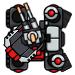
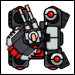
added full sized assets and fixed sinking logic

diff --git a/src/App.js b/src/App.js
@@ -1,13 +1,18 @@
 import React, { Component } from 'react';
 import GameInit from './GameInit';
 import PlayableBoard from './PlayableBoard';
-import Chat from './Chat';
+import ship1BBrokenFull from './Assets/Ships/Blue/ship1BbrokenFull.png'
+import ship2BBrokenFull from './Assets/Ships/Blue/ship2BbrokenFull.png'
+import ship3BBrokenFull from './Assets/Ships/Blue/ship3BbrokenFull.png'
+import ship4BBrokenFull from './Assets/Ships/Blue/ship4BbrokenFull.png'
+import ship5BBrokenFull from './Assets/Ships/Blue/ship5BbrokenFull.png'
+import Blank from './Assets/Ships/Red/blank.png'
 import './index.css';
 import { BrowserRouter as Router, Route } from 'react-router-dom';
 
 
 
-const ws = new WebSocket('ws://localhost:3001');
+const ws = new WebSocket('ws://18.188.167.90:3001');
 
 class App extends Component {
 	constructor(props) {
@@ -20,8 +25,8 @@ class App extends Component {
 			turn: true, // boolean tracking turn order with true = P1 false = P2
 			player1SinkStat: [], // array of P1 ship objects (contains name: location: sunk:)
 			player2SinkStat: [], // array of P2 ship objects (contains name: location: sunk:)
-			player1SunkShips: [], // contains names of any ships sunk by P2 opponent
-			player2SunkShips: [], // contains names of any ships sunk by P1 opponent
+			player1SunkShips: ['blank'], // contains names of any ships sunk by P2 opponent
+			player2SunkShips: ['blank'], // contains names of any ships sunk by P1 opponent
 			roomId: '',
 			didWin: null,
 			chat: [],
@@ -152,6 +157,7 @@ class App extends Component {
 	};
 
 	_setSunkStatus = id => {
+    
 		let shotsFiredArr;
 		let shipObj;
 		// choose which player arrays to update based on id of calling function
@@ -167,12 +173,25 @@ class App extends Component {
 		// Check shotsFiredArr at those indicies for anything not an 'X'
 		// In effect if only X's were found the true state of sunk is left untouched and is correct.
 		// If instead a value of 0 (default) or 'O' (miss) are found, no hit was registered at these ship coordinates yet
-		// so we set the sunk value back to false.
+    // so we set the sunk value back to false.
+    // debugger;
 		for (let i = 0; i < 5; i++) {
-			shipObj[i].location.forEach(index => {
-				if (shotsFiredArr[index - 1] !== 'tempX' || shotsFiredArr[index - 1] !== 'X') {
-					modifiedShipObj[i].sunk = false;
-				}
+			 shipObj[i].location.forEach(index => {
+        switch(shotsFiredArr[index-1]) {
+
+          case 0:
+            modifiedShipObj[i].sunk = false;
+          case 'tempO':
+            modifiedShipObj[i].sunk = false;
+          case 'O':
+            modifiedShipObj[i].sunk = false;
+        }
+
+			// 	if (shotsFiredArr[index - 1] !== 'X') {
+			// 		modifiedShipObj[i].sunk = false;
+			// 	}else if(shotsFiredArr[index - 1] !== 'tempX') {
+      //     modifiedShipObj[i].sunk = false;
+      //   }
 			});
 		}
 		// After this is done for all 5 ships we setState overwriting the ship objects with any changes to sunk state
@@ -180,44 +199,41 @@ class App extends Component {
 		this.setState(
 			{
 				player2SinkStat: modifiedShipObj
-			}, this._checkSunkStatus()
+			}, this._checkSunkStatus(modifiedShipObj)
 		);
 	};
 
-	_checkSunkStatus = () => {
+	_checkSunkStatus = (modifiedShipObj) => {
 		// This method will loop through the sunk statuses of each ship
 		// and set the name in state of any sunken ship
 		// Finally, it calls a check function in gameIsOver for handling if the game has concluded or not
 	
-		const status = this.state.player2SinkStat;
+		// const status = this.state.player2SinkStat;
+		const status = modifiedShipObj;
 
 		let sunkenShips;
 
-		sunkenShips = status.filter(obj => {
+		sunkenShips = status.map(obj => {
 			if (obj.sunk) {
-				return true;
+        return obj.name;
 			} else {
-				return false;
+				return 'blank';
 			}
-		});
-
-		let sunkenShipNames = sunkenShips.map(obj => {
-			return obj.name;
 		});
 
 		this.setState(
 			{
-				player2SunkShips: sunkenShipNames
+				player2SunkShips: sunkenShips
 			},
-			this._sendShotResultsToOpp
+			this._sendShotResultsToOpp(sunkenShips)
 		);
 	};
 
-	_sendShotResultsToOpp = () => {
+	_sendShotResultsToOpp = (sunkenShips) => {
 
     console.log('this.state.player1SinkStat')
     console.log(this.state.player1SinkStat)
-		ws.send(JSON.stringify({ type: 'shotsFired', value: this.state.player2Status, id: this.state.roomId}));
+		ws.send(JSON.stringify({ type: 'shotsFired', value: this.state.player2Status, id: this.state.roomId, sunkenShipsArr: sunkenShips}));
 		this.state.turn
 			? this.setState({ turn: false }, console.log('its your turn'))
 			: this.setState({ turn: true }, console.log('not your turn'));
@@ -229,12 +245,12 @@ class App extends Component {
 		// This method is a simple check for game end.
 		// It checks the length of both player arrays containing names of their sunken ships
 		// If either player array is of length 5, all 5 ships have sunk and the game is over
-		if (this.state.player1SunkShips.length === 5 || this.state.player2SunkShips.length === 5) {
-			console.log('You Won');
+		if (!this.state.player1SunkShips.includes('blank')){
+      console.log('You Won');
 			ws.send(JSON.stringify({ type: 'gameOver', id: this.state.roomId }));
 			this.setState({
 				didWin: true
-			});
+			});   
 		}
 	};
 
@@ -330,7 +346,25 @@ class App extends Component {
 		console.log('message sent websockets');
 	};
 
-
+  _opponentSunkShips =  () => {
+    let sunkShips = this.state.player2SunkShips.map(name => {
+      switch(name) {
+        case 'PT-2M Citadel':
+          return  <img src={ship1BBrokenFull} alt=''></img>
+        case 'R5 Typhoon':
+          return  <img src={ship2BBrokenFull} alt=''></img>
+        case 'J76A Zepher':
+          return  <img src={ship3BBrokenFull} alt=''></img>
+        case 'DL08 Challenger':
+          return  <img src={ship4BBrokenFull} alt=''></img>
+        case 'VB-4 Lynx':
+          return  <img src={ship5BBrokenFull} alt=''></img>
+        case 'blank':
+        return  <img src={Blank} alt=''></img>
+      }
+    })
+    return sunkShips;
+  }
 
 	render() {
 
@@ -362,7 +396,6 @@ class App extends Component {
 						render={props => {
 							return (
 								<div className='gamestart'>
-									<div style={{ width: 200 + 'px', backgroundColor: 'white' }}>{this.state.player2SunkShips}</div>
 									{/* <div className='playableBoard'>  */}
                     <PlayableBoard
                     setPlayer1Status = {this._setPlayer1Status}
@@ -385,6 +418,7 @@ class App extends Component {
                     addToChat={this._addToChat}
                     player1SinkStat = {this.state.player1SinkStat}
 									  />
+                    <div className='sunkShips' style={{ backgroundColor: 'white' }}>{this._opponentSunkShips()}</div>
                   </div>
 								// </div>
 							);

diff --git a/src/PlayerBoard.js b/src/PlayerBoard.js
@@ -11,6 +11,8 @@ import ship2Rbroken from './Assets/Ships/Red/ship2Rbroken.png';
 import ship3Rbroken from './Assets/Ships/Red/ship3Rbroken.png';
 import ship4Rbroken from './Assets/Ships/Red/ship4Rbroken.png';
 import ship5Rbroken from './Assets/Ships/Red/ship5Rbroken.png';
+import StaticExplosion from './Assets/staticExplosion.png';
+import StaticMiss from './Assets/staticMiss.png';
 
 class PlayerBoard extends Component {
   constructor(props) {
@@ -29,9 +31,9 @@ class PlayerBoard extends Component {
     } else if (this.props.playerStatus[this.state.id - 1] === 'tempO') {
       onShot = <Miss />
     }else if (this.props.playerStatus[this.state.id - 1] === 'X') {
-      onShot = 'X';
+      onShot = <img src={StaticExplosion} alt='explosion hit' style={{ maxHeight: 100+'%', maxWidth: 100+'%'}} />
     } else if (this.props.playerStatus[this.state.id - 1] === 'O') {
-      onShot = 'O';
+      onShot = <img src={StaticMiss} alt='explosion miss' style={{ maxHeight: 100+'%', maxWidth: 100+'%'}} />
     }
     
     let ship; 

diff --git a/src/OpponentBoard.js b/src/OpponentBoard.js
@@ -3,6 +3,8 @@ import Hit from './Hit';
 import Miss from './Miss';
 import HitFX from './HitFX';
 import MissFX from './MissFX';
+import StaticExplosion from './Assets/staticExplosion.png';
+import StaticMiss from './Assets/staticMiss.png';
 
 class OpponentBoard extends Component {
 	constructor(props) {
@@ -50,9 +52,11 @@ class OpponentBoard extends Component {
         onShot = <Miss />;
         firingSolution = <MissFX />;
       }else if (this.props.opponentStatus[this.state.id - 1] === 'X') {
-        onShot = 'X';
+        onShot = <img src={StaticExplosion} alt='' style={{ maxHeight: 100+'%', maxWidth: 100+'%'}} />
+        ;
       } else if (this.props.opponentStatus[this.state.id - 1] === 'O') {
-        onShot = 'O';
+        onShot = <img src={StaticMiss} alt='' style={{ maxHeight: 100+'%', maxWidth: 100+'%'}} />
+
       }
     
       // make a copy of state

diff --git a/src/HitFX.js b/src/HitFX.js
@@ -1,19 +1,8 @@
 import React, { Component } from 'react';
-import Boom1 from './Assets/Sounds/explosion1.wav';
-import Boom2 from './Assets/Sounds/explosion2.wav';
-import Boom3 from './Assets/Sounds/explosion3.wav';
-import HitAudio from './Assets/Sounds/firecombined.wav';
+import HitAudio from './Assets/Sounds/explosionHit.wav';
+// import HitAudio from './Assets/Sounds/firecombined.wav';
 
 class HitFX extends Component {
-  constructor(props) {
-    super(props);
-    this.state=({
-      explosion: [Boom1,Boom2,Boom3],
-      usedSounds: [],
-    })
-  }
-  
- 
 
   _shuffleArr = (array) => {
     let i = array.length,
@@ -37,7 +26,6 @@ class HitFX extends Component {
   }
 
   render() {
-    let Boom = this.state.explosion[this._getRandomIntInclusive()]
 
     return (
       <audio autoPlay = {true}>

diff --git a/src/Ship.js b/src/Ship.js
@@ -1,9 +1,9 @@
 import React, { Component } from 'react';
-import ship1R from './Assets/Ships/Red/ship1R.png';
-import ship2R from './Assets/Ships/Red/ship2R.png';
-import ship3R from './Assets/Ships/Red/ship3R.png';
-import ship4R from './Assets/Ships/Red/ship4R.png';
-import ship5R from './Assets/Ships/Red/ship5R.png';
+import ship1R from './Assets/Red/ship1R.png';
+import ship2R from './Assets/Red/ship2R.png';
+import ship3R from './Assets/Red/ship3R.png';
+import ship4R from './Assets/Red/ship4R.png';
+import ship5R from './Assets/Red/ship5R.png';
 
 class Ship extends Component {
   

diff --git a/src/Miss.js b/src/Miss.js
@@ -1,10 +1,10 @@
 import React from 'react';
-import Miss from './Assets/misscombined.gif';
+import Miss from './Assets/miss.gif';
 
 const onMiss = () => {
 	return (
 		<div>
-			<img src={Miss} alt=' billowing smoke' style={{ width: 75 + 'px', height: 75+'px', objectFit: 'none'}} />
+			<img src={Miss} alt='' style={{ maxHeight: 100+'%', maxWidth: 100+'%'}} />
 		</div>
 	);
 };

diff --git a/src/Hit.js b/src/Hit.js
@@ -1,10 +1,10 @@
 import React from 'react';
-import Hit from './Assets/firecombined.gif';
+import Hit from './Assets/explosion.gif';
 
 const onHit = () => {
 	return (
 		<div>
-			<img src={Hit} alt='explosion' style={{ width: 75 + 'px', height: 75+'px', objectFit: 'none'}} />
+			<img src={Hit} alt='' style={{ width: 80+'px', height: 80+'px'}} />
 		</div>
 	);
 };

diff --git a/src/MissFX.js b/src/MissFX.js
@@ -1,5 +1,5 @@
 import React from 'react';
-import MissAudio from './Assets/Sounds/misscombined.wav';
+import MissAudio from './Assets/Sounds/explosionMiss.wav';
 
 const MissFX = () => {
     return (

diff --git a/src/index.css b/src/index.css
@@ -116,3 +116,8 @@ font-family: Contrail One, cursive;
   width: 70%;
   
 }
+
+.sunkShips{
+  display:flex;
+  flex-direction: row;
+}
